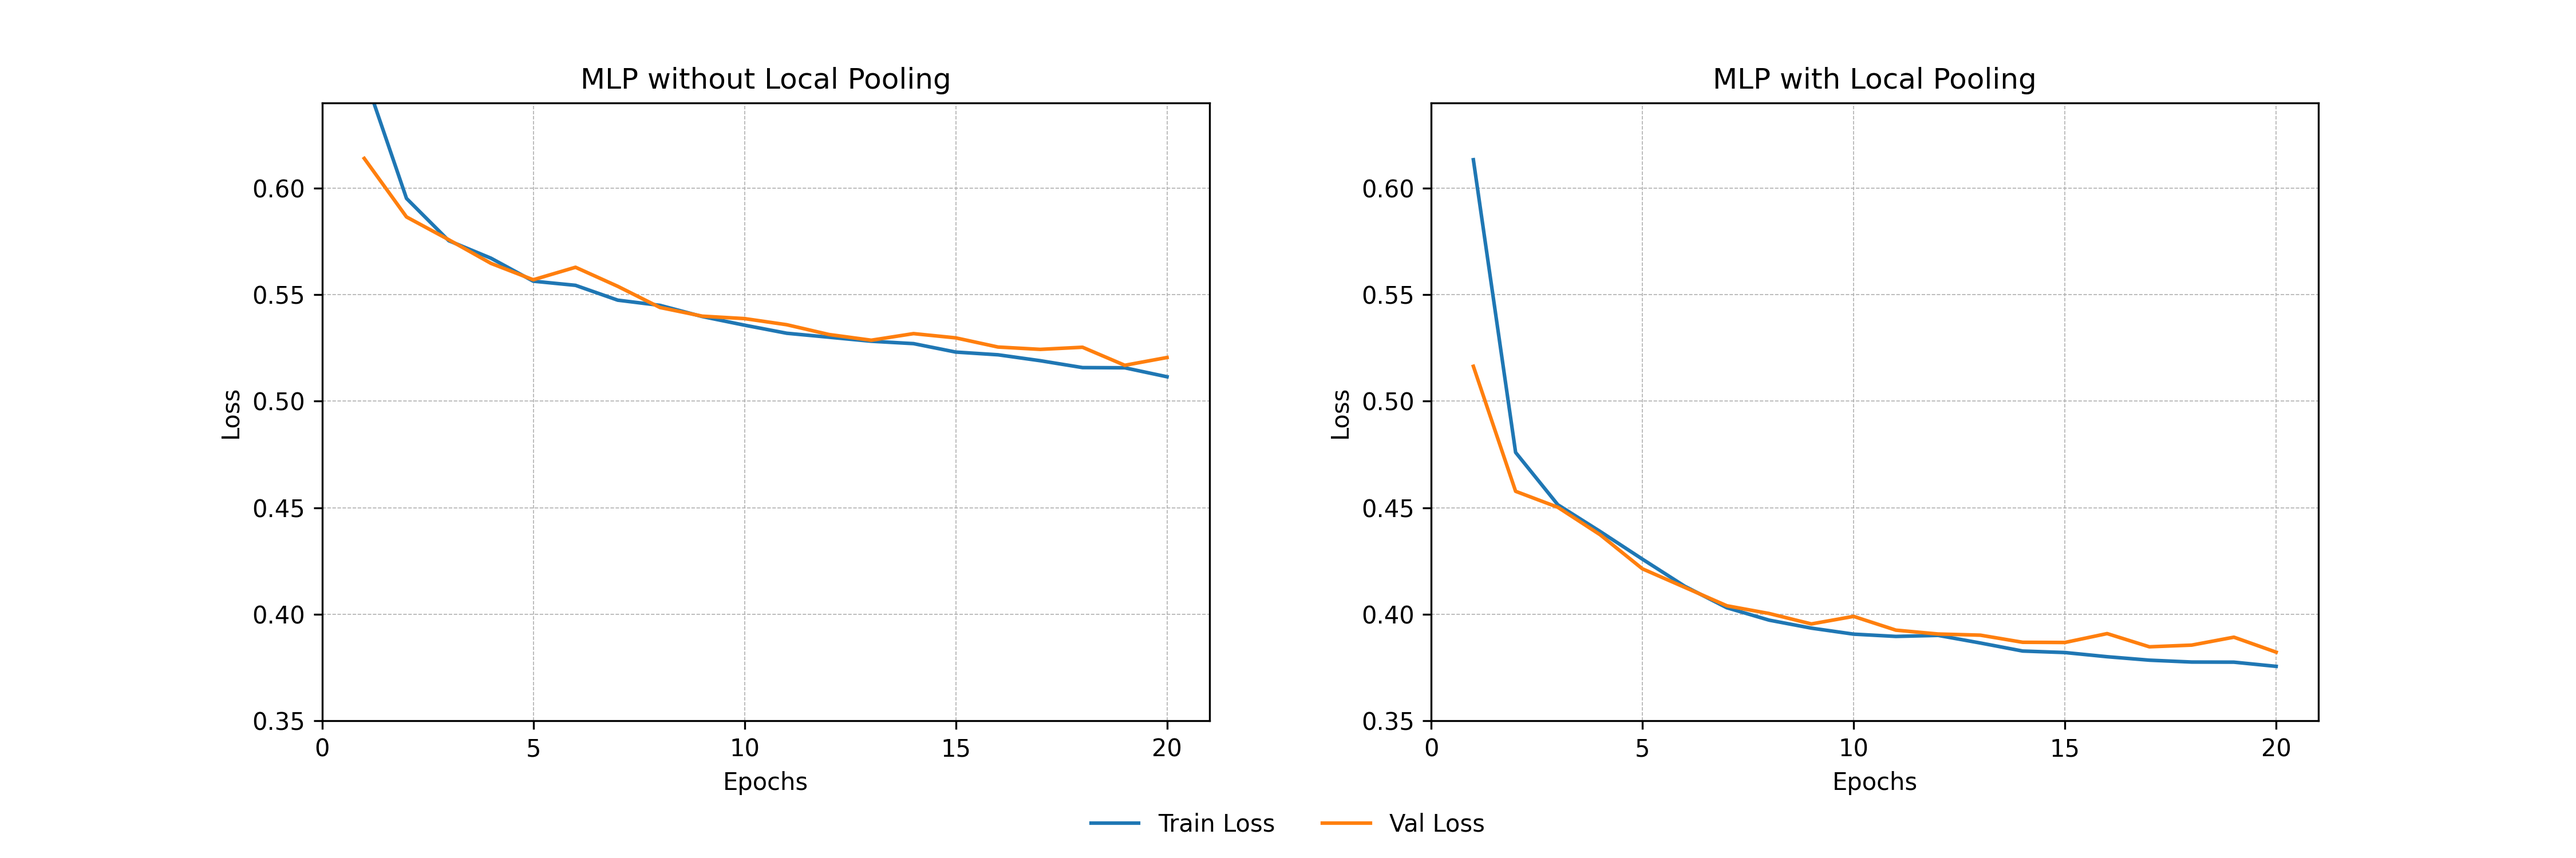
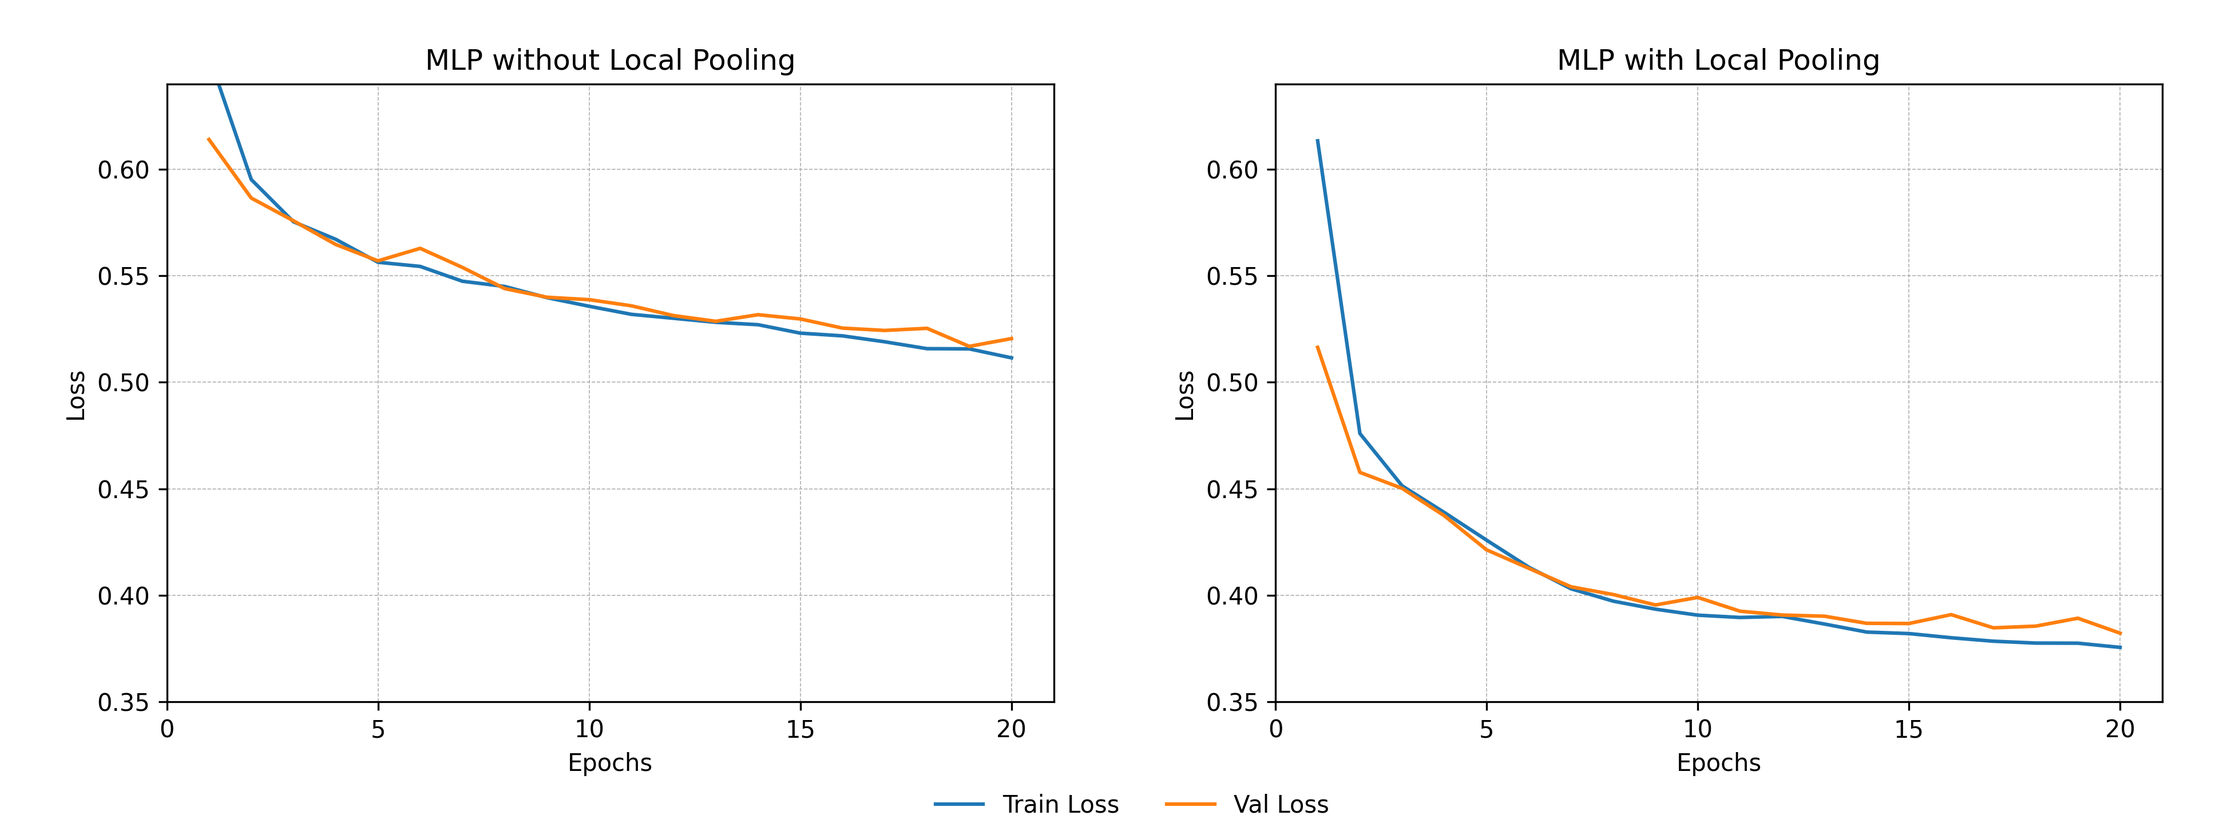
Update Graphs

diff --git a/final_blog/index.html b/final_blog/index.html
@@ -264,14 +264,12 @@
 				<a href="#experiments">Experiments</a><br>
 				<span class="nav-item"><a href="#data">Data</a></span>
 			    <span class="nav-item"><a href="#architecture">Overall Architecture</a></span>
-				<span class="nav-item"><a href="#baseline_comparison">Baseline Comparison</a></span>
-				<span class="nav-item"><a href="#capacity_analysis">Capacity Analysis</a></span>
-				<span class="nav-item"><a href="#local_bias">Local Bias</a></span>
-				<span class="nav-item"><a href="#task_specific_data_augmentation">Task-specific Data Augmentation</a></span>
-				<span class="nav-item"><a href="#evaluation">Evaluation</a></span><br>
-				<a href="#results">Results</a><br><br>
+				<span class="nav-item"><a href="#experiment">Experiments</a></span>
+				<span class="nav-item"><a href="#baseline_comparison">1-Baseline Comparison</a></span>
+				<span class="nav-item"><a href="#capacity_analysis">2-Capacity Analysis</a></span>
+				<span class="nav-item"><a href="#local_bias">3-Local Bias</a></span><br>
 				<a href="#discussion">Discussion</a><br><br>
-				<a href="#future_work_and_limitations">Future Work and Limitations</a><br><br>
+				<a href="#future_work_and_limitations">Implications and Limitations</a><br><br>
           </div>
 			</div>
 		    <div class="main-content-block">
@@ -315,17 +313,17 @@
 
 			
 				<h2 id="previous_work" style="margin-top: 20px; margin-bottom: 10px;">Previous Work</h2>
+				<span style="font-weight: 500; margin-bottom: 0;">Physical-based Simulations / Analytical Methods</span>
 				<p>
-					Recent research has developed several <span style="font-weight: 500;">physical-based simulations or analytical methods</span> to estimate point-in-time parallel ray occlusion using raw point clouds. Bognár et. al. projected the points to a discretized skydome, and trained an SVM classifier to predict occlusion labels for each sky patch based on projected points <a href="#ref_1">[1]</a>. Su and Dogan developed a voxelization-based method that converts point clouds into volumetric grids, enabling efficient ray-voxel intersection tests for occlusion determination <a href="#ref_2">[2]</a>. These methods avoid explicit surface reconstruction but still require computationally intensive preprocessing steps and hand-crafted features, limiting scalability and generalization.
+					Recent research has developed several physical-based simulations or analytical methods to estimate point-in-time parallel ray occlusion using raw point clouds. Bognár et. al. projected the points to a discretized skydome, and trained an SVM classifier to predict occlusion labels for each sky patch based on projected points <a href="#ref_1">[1]</a>. Su and Dogan developed a voxelization-based method that converts point clouds into volumetric grids, enabling efficient ray-voxel intersection tests for occlusion determination <a href="#ref_2">[2]</a>. These methods avoid explicit surface reconstruction but still require computationally intensive preprocessing steps and hand-crafted features, limiting scalability and generalization.
 				</p>
+				<span style="font-weight: 500; margin-bottom: 0;">ML-based Coarse Resolution Estimation </span>
 				<p>
 				</p>
 
+				<span style="font-weight: 500; margin-bottom: 0;">Machine Learning for Point Cloud Understanding</span>
 				<p>
-					TODO: WOrk in ML on point cloud in urban space understanding
-				</p>
-				<p>
-					<span style="font-weight: 500;">Machine Learning for Point Cloud Understanding</span> has been approached through several encoder families, each offering different trade-offs in geometric fidelity, locality modeling, and scalability:<br>
+					Machine Learning for Point Cloud Understanding has been approached through several encoder families, each offering different trade-offs in geometric fidelity, locality modeling, and scalability:<br>
 					<div class="listing_items">
 						<ul>
 							<li>
@@ -454,7 +452,12 @@
 						(1 - y)\,\log\!\left(1 - \sigma(x)\right)
 						\Big]
 						\]
-					
+				<h2 id="experiment" style="margin-top:20px; margin-bottom:2px;">
+					Experiments
+				</h2>	
+				<p>
+					In the following section, we systematically evaluated which inductive biases matter for learning point-in-time ray occlusion from raw urban LiDAR. Stage 1 compared architectural families (MLP vs. transformer) with and without Fourier features. Stage 2 varied geometric resolution (8× → 4× downsampling) and model capacity. Stage 3 introduced a PointNet++-inspired local pooling module on top of the global pooling based MLP.
+				</p>
 				
 				<h2 id="baseline_comparison" style="margin-top:20px; margin-bottom:2px;">
 					1. Baseline Comparison
@@ -554,6 +557,13 @@
 
 				</table>				
 			</div>
+			<p>
+				Figure X shows one example from the test set, comparing ground-truth occlusion labels with the MLP model predictions (with Fourier features). Visually, the model captures the global occlusion patterns well, correctly identifying regional patterns. However, finer details are missed, such as the it predicts some small occluded clusters as a whole band of occuluded region. This suggests that while the model learns the overall geometry-dependent occlusion function, it struggles with fine-grained geometric reasoning, likely due to the aggressive downsampling and limited local context modeling inherent in the MLP architecture.
+			</p>
+			<figure style="text-align: center;">
+			<img src="./images/samples_grid_basic_blog.png" width="80%" />
+			<figcaption><span style="font-weight: 500;">Figure X.</span> Testing Example with MLP + Fourier</figcaption>
+			</figure>
 			
 
 
@@ -680,7 +690,7 @@
 							<td style="padding: 8px 20px;">0.7743</td>
 							<td style="padding: 8px 20px;">0.8649</td>
 							<td style="padding: 8px 20px;">0.8171</td>
-							<td style="padding: 8px 20px;">478,305</td>
+							<td style="padding: 8px 20px;">204,257</td>
 							<td style="padding: 8px 20px;">184.59</td>
 						</tr>
 
@@ -701,7 +711,7 @@
 							<td style="padding: 8px 20px;">0.7357</td>
 							<td style="padding: 8px 20px;">0.9133</td>
 							<td style="padding: 8px 20px;">0.8150</td>
-							<td style="padding: 8px 20px;">523,681</td>
+							<td style="padding: 8px 20px;">249,633</td>
 							<td style="padding: 8px 20px;">186.71</td>
 						</tr>
 					</tbody>
@@ -709,10 +719,17 @@
 				</table>				
 			</div>
 			<p>
-				Beyond accuracy, reducing the downsampling ratio and feature dimensionality yields meaningful efficiency gains. As shown in Table X, moving from 8× to 4× downsampling reduces parameter counts by around 40% for both architectures, with a corresponding decrease in inference latency from ~231 ms to ~185 ms per sample. While reducing downsampling increases the number of input points, the shallower architecture and lower feature dimensions more than compensate, resulting in a net efficiency improvement. As a result, the overall model becomes smaller and faster despite operating on a denser point cloud. While the results with 4x downsampling of MLP encoders are comparable to those with 8x downsampling, the efficiency gains and stability make this configuration more favorable in practice.
+				Beyond accuracy, reducing the downsampling ratio and feature dimensionality yields meaningful efficiency gains. As shown in Table X, moving from 8× to 4× downsampling reduces parameter counts by around 40% for both architectures, with a corresponding decrease in inference latency from ~231 ms to ~185 ms per sample (measured on a Google Colab L4 GPU). While reducing downsampling increases the number of input points, the shallower architecture and lower feature dimensions more than compensate, resulting in a net efficiency improvement. As a result, the overall model becomes smaller and faster despite operating on a denser point cloud. While the results with 4x downsampling of MLP encoders are comparable to those with 8x downsampling, the efficiency gains and stability make this configuration more favorable in practice.
 			</p>
 				<p>
 					Additional experiments with more aggressive reductions in both downsampling ratio and feature dimensionality (not shown in Table X) were conducted to assess whether the MLP encoder could be pushed to an even more compact configuration. While the losses remain stable under these more extreme settings, its performance drops noticeably and does not reach the accuracy levels achievable at 4× downsampling. Therefore, we find this configuration to be a reasonable one that yields stable performance. 
+				</p>
+				<figure style="text-align: center;">
+				<img src="./images/samples_grid_4downsample_blog.png" width="80%" />
+				<figcaption><span style="font-weight: 500;">Figure X.</span> Testing Example with MLP 4x Downsampling</figcaption>
+				</figure>
+				<p>
+					We visualize the same test example from earlier in Figure X now with MLP with 4x downsampling ratio. Though it still struggles with local patterns, the confidence of the false negative is noticeably lower as indicated in the probability map. This suggests that the model is better able to capture local geometric cues that influence occlusion, even if it does not fully resolve all fine-grained details. 
 				</p>
 
 
@@ -738,6 +755,79 @@
 					The final representation for each test point is the concatenation of (1) its own test-point feature, (2) the local K-NN pooled feature, and (3) the broadcast global context feature. This combined descriptor is passed through a shallow MLP head to predict per-point occlusion logits.
 				</p>
 				<span style="font-weight: 500;">Results</span>
+				<figure style="text-align: center;">
+				<img src="./images/training_validation_loss_comparison_final.png" width="80%" />
+				<figcaption><span style="font-weight: 500;">Figure X.</span> Training and validation loss curves with vs without local pooling.</figcaption>
+				</figure>
+				<p>
+					Noticeably, by introducing local pooling, the model achieves smoother and much lower training and validation loss curves, as shown in Figure X. The local aggregation allows the model to better capture fine-grained geometric patterns that influence occlusion than relying on global features along. This leads to more stable learning dynamics and improved generalization, as evidenced by the lower validation loss throughout training.
+				</p>
+				
+				<div style="text-align: center; margin-top: 20px;">
+				<table 
+					style="
+						border-collapse: collapse; 
+						margin-left: auto; 
+						margin-right: auto; 
+						text-align: center; 
+						font-size: 15px; 
+						font-weight: 300;
+						border: 1.5px solid #000;
+					"
+				>
+					
+					<caption style="caption-side: bottom; ; margin-top: 8px;">
+						<span style="font-weight: 500;">Table X.</span>  Local Pooling Performance Comparison
+					</caption>
+
+					<thead>
+						<tr style="border-bottom: 1.5px solid #000;">
+							<th style="padding: 8px 20px;  border-right: 1px solid #000;">Model</th>
+							<th style="padding: 8px 20px;">Accuracy</th>
+							<th style="padding: 8px 20px;">Precision</th>
+							<th style="padding: 8px 20px;">Recall</th>
+							<th style="padding: 8px 20px;">F1 Score</th>
+							<th style="padding: 8px 20px;"># Params</th>
+							<th style="padding: 8px 20px;">Inference Latency (ms per sample)</th>
+						</tr>
+					</thead>
+
+					<tbody>
+						<!-- MLP -->
+						<tr>
+							<td  style="padding: 8px 20px; border-right: 1px solid #000;">MLP with Global Pooling</td>
+							<td style="padding: 8px 20px;">0.7458</td>
+							<td style="padding: 8px 20px;">0.7743</td>
+							<td style="padding: 8px 20px;">0.8649</td>
+							<td style="padding: 8px 20px;">0.8171</td>
+							<td style="padding: 8px 20px;">204,257</td>
+							<td style="padding: 8px 20px;">184.59</td>
+						</tr>
+						<tr>
+							<td style="padding: 8px 20px; border-right: 1px solid #000;">MLP with Global and Local Pooling</td>
+							<td style="padding: 8px 20px;">0.8320</td>
+							<td style="padding: 8px 20px;">0.8516</td>
+							<td style="padding: 8px 20px;">0.9011</td>
+							<td style="padding: 8px 20px;">0.8757</td>
+							<td style="padding: 8px 20px;">266,337</td>
+							<td style="padding: 8px 20px;">184.07</td>
+						</tr>
+
+					</tbody>
+
+				</table>				
+			</div>
+			<p>
+				We also report the testing performance in Table X. Since architecturally-wise, we are only introducing one shared relative position projection and local point MLP, the parameter count remains nearly identical to the baseline MLP model. However, the addition of local pooling yields consistent improvements across all metrics, including accuracy, precision, recall, and F1-score. This confirms that incorporating local geometric context enhances the model’s ability to reason about occlusion, leading to more accurate predictions without significantly increasing model complexity.
+			</p>
+			<figure style="text-align: center;">
+				<img src="./images/samples_grid_localPooling_blog.png" width="80%" />
+				<figcaption><span style="font-weight: 500;">Figure X.</span> Training and validation loss curves with vs without local pooling.</figcaption>
+				</figure>
+			<p>
+				Looking at the same test example in Figure X, we see that the model with local pooling recovers much finer details in the occlusion patterns. Many of the small occluded clusters that were previously misclassified are now correctly identified, and the overall confidence map appears much sharper and more precise. The probability map shows higher confidence in both occluded and non-occluded regions, indicating that the model is more certain about its predictions. This demonstrates that the local pooling mechanism effectively enhances the model’s sensitivity to fine-grained geometric cues that are critical for accurate occlusion reasoning.
+			</p>
+				
 
 
 
@@ -750,7 +840,15 @@
 				</div>
 		    <div class="main-content-block">
             <h1>Discussion</h1>
-            
+				<p>
+					A key insight from our experiments is that the strongest performance does not come from using the most expressive or capacity-heavy backbone, but from structuring the model so that its inductive biases reflect the physics of the task. The global-only model performs surprisingly well because it offers a stable, coarse summary of the entire scene while remaining simple enough to act as a regularizer, preventing the model from overfitting the highly irregular fine-scale patterns in point clouds. 
+				</p>
+				<p>
+					However, global pooling alone cannot capture the local geometric cues that fundamentally determine whether a ray intersects nearby surfaces. The local pooling module succeeds because it adds precisely the missing part: a lightweight, shared, spatially grounded representation of neighborhood-scale geometry, while the global branch continues to anchor the model with a broad contextual overview. This balance—global regularization plus local geometric sensitivity which appears far more important than maximizing parameter count or adopting a more complex architecture like a transformer. 
+				</p>
+				<p>
+					More broadly, in point-cloud tasks where both data density and memory footprint impose hard constraints, performance hinges on what geometric structure the model is biased to extract, not on raw representational power. Designing architectures that elevate the physically relevant aspects of the task, such as local occluders, directional relationships, multi-scale structure, should be higher priorities than simply scaling up model size or complexity.
+				</p>
 		    </div>
 		</div>
 
@@ -758,8 +856,31 @@
 				<div class="margin-left-block">
 				</div>
 		    <div class="main-content-block">
-						<h1>Implications and limitations</h1>
-						Let's end with some discussion of the implications and limitations.
+						<h1>Implications and Limitations</h1>
+						<h2>
+							Implications
+						</h2>
+						<p>
+							From a deep learning perspective, these experiments demonstrate that carefully designed inductive biases—not larger or more complex backbones—are the key to learning fine-grained, physics-driven functions directly from large, noisy point clouds. By combining a lightweight global pooling branch that stabilizes learning with a targeted local aggregation module that captures neighborhood-scale geometry, we show how to construct an efficient surrogate model that aligns with the underlying ray-occlusion physics while remaining memory-feasible for urban-scale data. 
+						</p>
+						<p>
+							From an application standpoint, this work provides a practical pathway toward fast, point-in-time solar occlusion estimation without requiring expensive geometric reconstruction or heavy ray-tracing. This enables more scalable radiation analysis across cities and supports downstream workflows in PV potential mapping, shading assessment, and urban energy modeling—tasks that increasingly demand fine temporal resolution but are constrained by the computational cost of traditional simulation pipelines.
+						</p>
+						<h2>
+							Limitations
+						</h2>
+						<p>
+							Several limitations of the current study point toward important directions for future work. 
+						</p>
+						<p>
+							First, although we systematically explored architectural families, downsampling ratios, and local–global fusion, many other design parameters remain untested, such as alternative neighborhood definitions, different positional encodings, or more advanced context–test interaction mechanisms. These choices likely matter, but the search space is too large to fully explore within the scope of this project. 
+						</p>
+						<p>
+							Second, because point-cloud models are extremely memory-intensive, an essential challenge is developing architectures that remain lightweight without sacrificing task-specific capacity. Our current design borrows standard point-cloud operations (RandLA-style sampling, PointNet++ grouping), but these may not be optimal for large urban scenes; future models need more deliberate architectural efficiency rather than simply adapting existing modules. 
+						</p>
+						<p>
+							Third, the training data, while large, may not be diverse enough to cover the real-world simulation, as they come from a narrow set of urban contexts with similar point densities and acquisition characteristics. This limits the model’s ability to generalize to different cities, scanning conditions, or more varied geometric environments. Finally, the ground-truth occlusion labels themselves arise from a voxelization-based simulation that introduces noise and discretization errors. Understanding how to make the surrogate robust to noisy labels, or how to design a data generation pipeline that provides more reliable fine-scale supervision, remains an open problem.
+						</p>
 		    </div>
 		</div>
 
